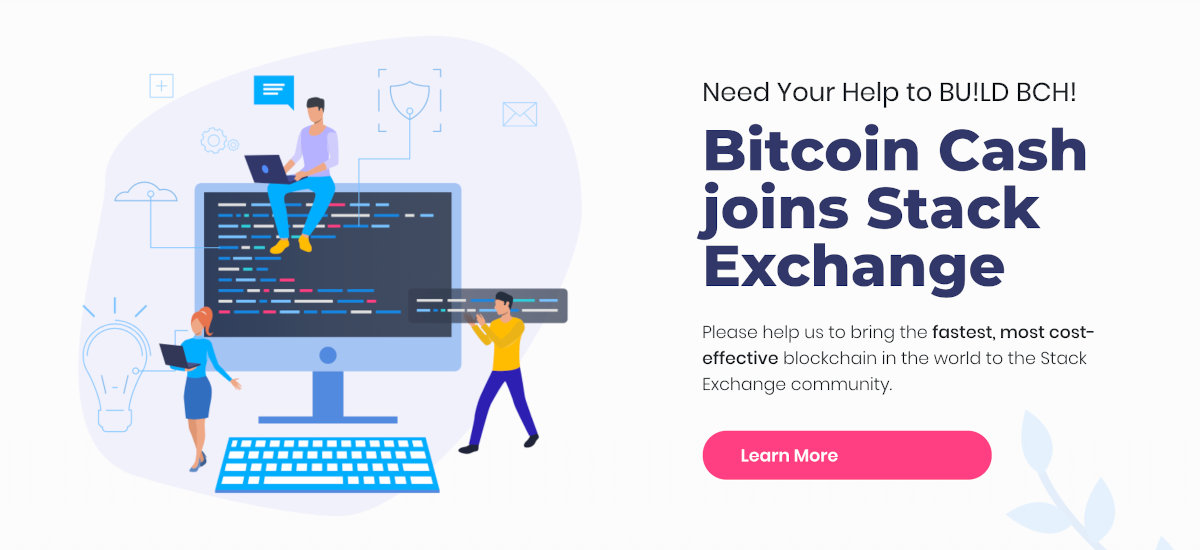
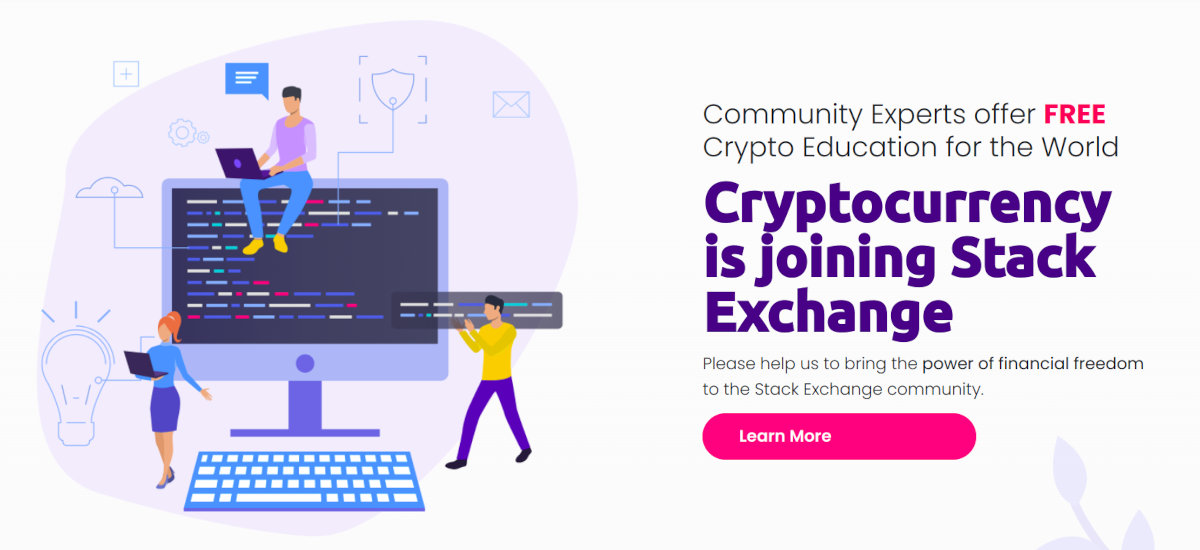
Update media files.

diff --git a/index.html b/index.html
@@ -3,25 +3,25 @@
 <head>
     <meta http-equiv="Content-Type" content="text/html; charset=UTF-8">
 
-    <title>Bitcoin Cash on Stack Exchange</title>
+    <title>Cryptocurrency on Stack Exchange</title>
 
-    <meta name="description" content="Please help us to bring the fastest, most cost-effective blockchain in the world to the Stack Exchange community.">
+    <meta name="description" content="Please help us to bring the power of financial freedom to the Stack Exchange community.">
     <meta name="viewport" content="width=device-width,minimum-scale=1,initial-scale=1">
 
     <link rel="icon" type="image/png" href="./favicon.ico">
 
     <!-- Open graph -->
-    <meta property="og:url" content="https://se.devops.cash" />
-    <meta property="og:title" content="Bitcoin Cash on Stack Exchange">
+    <meta property="og:url" content="https://ccse.info" />
+    <meta property="og:title" content="Cryptocurrency on Stack Exchange">
     <meta property="og:type" content="website">
-    <meta property="og:description" content="Please help us to bring the fastest, most cost-effective blockchain in the world to the Stack Exchange community.">
-    <meta property="og:image" content="https://se.devops.cash/poster.jpg?1584221387">
+    <meta property="og:description" content="Please help us to bring the power of financial freedom to the Stack Exchange community.">
+    <meta property="og:image" content="https://ccse.info/poster.jpg?1584221387">
 
     <!-- Twitter -->
     <meta name="twitter:card" content="summary_large_image">
-    <meta name="twitter:title" content="Bitcoin Cash on Stack Exchange">
-    <meta name="twitter:description" content="Please help us to bring the fastest, most cost-effective blockchain in the world to the Stack Exchange community.">
-    <meta name="twitter:image" content="https://se.devops.cash/poster.jpg?1584221387">
+    <meta name="twitter:title" content="Cryptocurrency on Stack Exchange">
+    <meta name="twitter:description" content="Please help us to bring the power of financial freedom to the Stack Exchange community.">
+    <meta name="twitter:image" content="https://ccse.info/poster.jpg?1584221387">
 
     <link rel="stylesheet" href="https://cdnjs.cloudflare.com/ajax/libs/twitter-bootstrap/4.4.1/css/bootstrap.min.css" />
     <link rel="stylesheet" href="https://cdnjs.cloudflare.com/ajax/libs/font-awesome/4.7.0/css/font-awesome.min.css">
@@ -29,6 +29,8 @@
     <link rel="stylesheet" href="https://fonts.googleapis.com/css?family=Poppins:300,400,500,600,700,800&display=swap">
 
     <link rel="stylesheet" type="text/css" href="./css/style.css" />
+
+    <script src="https://cdn.tailwindcss.com"></script>
 </head>
 
 <body>
@@ -38,7 +40,7 @@
 
         <div class="navbar-brand">
             <a class="navbar-brand-logo" href="javascript://">
-                <img src="./images/logo.png" width="155px">
+                <img src="./images/logo-pair.png" width="155px">
             </a>
         </div>
 
@@ -53,8 +55,9 @@
 
             <ul class="navbar-nav">
                 <li class="nav-item">
-                    <a class="nav-link learn-more-btn" href="https://area51.stackexchange.com/proposals/123786/bitcoin-cash" target="_blank">
-                        Join the Commitment</a>
+                    <a class="nav-link learn-more-btn" href="https://area51.stackexchange.com/proposals/127389/cryptocurrency" target="_blank">
+                        Join the Commitment
+                    </a>
                 </li>
             </ul>
         </div>
@@ -70,19 +73,23 @@
                 <img src="./images/header.png">
             </div>
 
-            <div class="col-lg-5 offset-lg-1 header-title-section">
-                <p class="header-subtitle">
-                    Please Help to BU!LD BCH!
+            <div class="col-lg-5 offset-lg-1 header-title-section space-y-3">
+                <p class="text-3xl font-light">
+                    Community Experts offer <strong class="font-bold text-rose-500">FREE</strong> Crypto Education for the World
                 </p>
 
-                <h1 class="header-title">Bitcoin Cash joins Stack Exchange</h1>
+                <h1 class="text-6xl text-indigo-900 font-[1000] font-sans">
+                    Cryptocurrency is joining Stack Exchange
+                </h1>
 
-                <p class="header-title-text">
-                    Please help us to bring the <strong>fastest, most cost-effective</strong> blockchain in the world to the Stack Exchange community.
+                <p class="text-lg font-light">
+                    Please help us to bring the <strong>power of financial freedom</strong> to the Stack Exchange community.
                 </p>
 
                 <div class="learn-more-btn-section">
-                    <a class="nav-link learn-more-btn btn-invert" href="https://area51.stackexchange.com/proposals/123786/bitcoin-cash" target="_blank">Learn More</a>
+                    <a class="nav-link learn-more-btn btn-invert" href="https://area51.stackexchange.com/proposals/127389/cryptocurrency" target="_blank">
+                        Learn More
+                    </a>
                 </div>
             </div>
         </div>
@@ -174,7 +181,9 @@
                 </p>
 
                 <div class="learn-more-btn-section">
-                    <a class="nav-link learn-more-btn btn-invert" href="https://area51.stackexchange.com/proposals/123786/bitcoin-cash" target="_blank">Learn More</a>
+                    <a class="nav-link learn-more-btn btn-invert" href="https://area51.stackexchange.com/proposals/127389/cryptocurrency" target="_blank">
+                        Learn More
+                    </a>
                 </div>
             </div>
         </div>
@@ -211,7 +220,9 @@
                             What is the difference between SLP and Ethereum-based tokens?
                         </p>
 
-                        <a class="blog-post-link" href="https://area51.stackexchange.com/proposals/123786/bitcoin-cash/123808" target="_blank">Read More</a>
+                        <a class="blog-post-link" href="https://area51.stackexchange.com/proposals/127389/cryptocurrency" target="_blank">
+                            Read More
+                        </a>
                     </div>
                 </div>
 
@@ -224,10 +235,12 @@
                         <h3 class="blog-post-title">CTOR</h3>
 
                         <p class="blog-post-text mb-4">
-                            How will CTOR help scale Bitcoin Cash beyond its current tx limits?
+                            How will CTOR help scale Cryptocurrency beyond its current tx limits?
                         </p>
 
-                        <a class="blog-post-link" href="https://area51.stackexchange.com/proposals/123786/bitcoin-cash/123788" target="_blank">Read More</a>
+                        <a class="blog-post-link" href="https://area51.stackexchange.com/proposals/127389/cryptocurrency" target="_blank">
+                            Read More
+                        </a>
                     </div>
                 </div>
 
@@ -243,7 +256,9 @@
                             How can I keep my BCH anonymous?
                         </p>
 
-                        <a class="blog-post-link" href="https://area51.stackexchange.com/proposals/123786/bitcoin-cash/123862" target="_blank">Read More</a>
+                        <a class="blog-post-link" href="https://area51.stackexchange.com/proposals/127389/cryptocurrency" target="_blank">
+                            Read More
+                        </a>
                     </div>
                 </div>
             </div>
@@ -276,7 +291,41 @@
         </div>
     </div>
 
-    <div class="footer-section">
+    <footer class="bg-white">
+        <div class="mx-auto max-w-7xl py-6 px-4 sm:px-6 md:flex md:items-center md:justify-between lg:px-8">
+            <div class="flex justify-center space-x-6 md:order-2">
+
+                <a href="https://github.com/avasdao/ccse" target="_blank" class="text-gray-400 hover:text-gray-500">
+                    <span class="sr-only">GitHub</span>
+                    <svg class="h-6 w-6 text-blue-600" fill="currentColor" viewBox="0 0 24 24" aria-hidden="true">
+                        <path
+                            fill-rule="evenodd"
+                            d="M12 2C6.477 2 2 6.484 2 12.017c0 4.425 2.865 8.18 6.839 9.504.5.092.682-.217.682-.483 0-.237-.008-.868-.013-1.703-2.782.605-3.369-1.343-3.369-1.343-.454-1.158-1.11-1.466-1.11-1.466-.908-.62.069-.608.069-.608 1.003.07 1.531 1.032 1.531 1.032.892 1.53 2.341 1.088 2.91.832.092-.647.35-1.088.636-1.338-2.22-.253-4.555-1.113-4.555-4.951 0-1.093.39-1.988 1.029-2.688-.103-.253-.446-1.272.098-2.65 0 0 .84-.27 2.75 1.026A9.564 9.564 0 0112 6.844c.85.004 1.705.115 2.504.337 1.909-1.296 2.747-1.027 2.747-1.027.546 1.379.202 2.398.1 2.651.64.7 1.028 1.595 1.028 2.688 0 3.848-2.339 4.695-4.566 4.943.359.309.678.92.678 1.855 0 1.338-.012 2.419-.012 2.747 0 .268.18.58.688.482A10.019 10.019 0 0022 12.017C22 6.484 17.522 2 12 2z"
+                            clip-rule="evenodd"
+                        />
+                    </svg>
+                </a>
+
+                <a href="https://twitter.com/AvasDAO" target="_blank" class="text-gray-400 hover:text-gray-500">
+                    <span class="sr-only">Twitter</span>
+                    <svg class="h-6 w-6 text-blue-400" fill="currentColor" viewBox="0 0 24 24" aria-hidden="true">
+                        <path
+                            d="M8.29 20.251c7.547 0 11.675-6.253 11.675-11.675 0-.178 0-.355-.012-.53A8.348 8.348 0 0022 5.92a8.19 8.19 0 01-2.357.646 4.118 4.118 0 001.804-2.27 8.224 8.224 0 01-2.605.996 4.107 4.107 0 00-6.993 3.743 11.65 11.65 0 01-8.457-4.287 4.106 4.106 0 001.27 5.477A4.072 4.072 0 012.8 9.713v.052a4.105 4.105 0 003.292 4.022 4.095 4.095 0 01-1.853.07 4.108 4.108 0 003.834 2.85A8.233 8.233 0 012 18.407a11.616 11.616 0 006.29 1.84"
+                        />
+                    </svg>
+                </a>
+
+            </div>
+
+            <div class="mt-8 md:order-1 md:mt-0">
+                <p class="text-center text-sm text-gray-400">
+                    &copy; 2022 Ava's DAO. All rights reserved.
+                </p>
+            </div>
+        </div>
+    </footer>
+
+    <footer class="hidden footer-section">
         <div class="footer-section-bg-graphics">
             <img src="./images/footer-section-bg.png">
         </div>
@@ -286,16 +335,16 @@
                 <img src="./images/logo_footer.png">
 
                 <p class="footer-susection-text">
-                    Please help us in bringing Bitcoin Cash to the Stack Exchange community.
+                    Please help us in bringing Cryptocurrency to the Stack Exchange community.
                 </p>
             </div>
 
             <div class="col-lg-3 col-md-6 footer-subsection">
                 <div class="footer-subsection-2-1">
-                    <h3 class="footer-subsection-title">BCH Please</h3>
+                    <h3 class="footer-subsection-title">Ava's DAO</h3>
 
                     <p class="footer-subsection-text">
-                        Working to increase awareness of the fastest, most cost-efficient blockchain throughout the world.
+                        Working to deliver the power of financial freedom throughout the world.
                     </p>
                 </div>
             </div>
@@ -312,7 +361,7 @@
                         +1 678 981-8818
                     </li>
                     <li>
-                        support@bchplease.org
+                        support@avasdao.org
                     </li>
                 </ul>
             </div>
@@ -322,13 +371,13 @@
                     <h3 class="footer-subsection-title">Socials</h3>
 
                     <div class="footer-social-media-icons-section">
-                        <a href="https://www.reddit.com/r/DevOpsCash/" target="_blank" class="footer-social-media-icon">
+                        <a href="https://www.reddit.com/r/AvasDAO/" target="_blank" class="footer-social-media-icon">
                             <i class="fa fa-reddit"></i></a>
 
-                        <a href="https://github.com/modenero/devops.cash" target="_blank" class="footer-social-media-icon">
+                        <a href="https://github.com/avasdao/ccse" target="_blank" class="footer-social-media-icon">
                             <i class="fa fa-github"></i></a>
 
-                        <a href="https://twitter.com/search?q=%23MakeBitcoinCashAgain" target="_blank" class="footer-social-media-icon">
+                        <a href="https://twitter.com/AvasDAO" target="_blank" class="footer-social-media-icon">
                             <i class="fa fa-twitter"></i></a>
                     </div>
                 </div>
@@ -337,10 +386,10 @@
 
         <div class="container footer-credits">
             <p>
-                &copy; 2020 <a href="https://bchplease.org" target="_blank" title="Codefest">BCH Please</a>. All Rights Reserved.
+                &copy; 2022 <a href="https://avasdao.org" target="_blank" title="Codefest">Ava's DAO</a>. All Rights Reserved.
             </p>
         </div>
-    </div>
+    </footer>
 </div>
 
 <script src="https://cdnjs.cloudflare.com/ajax/libs/jquery/3.4.1/jquery.min.js"></script>

diff --git a/README.md b/README.md
@@ -1,0 +1,7 @@
+# Cryptocurrency on Stack Exchange
+
+### https://ccse.info
+
+### https://area51.stackexchange.com/proposals/127389/cryptocurrency
+
+For cryptocurrency developers, investors and general enthusiasts interested in financial freedom.
